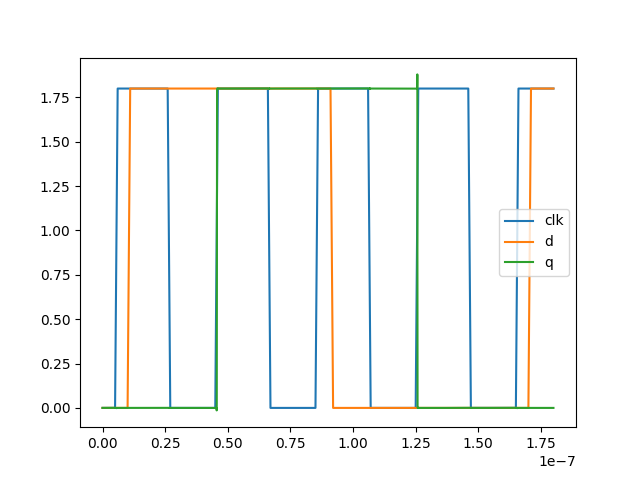
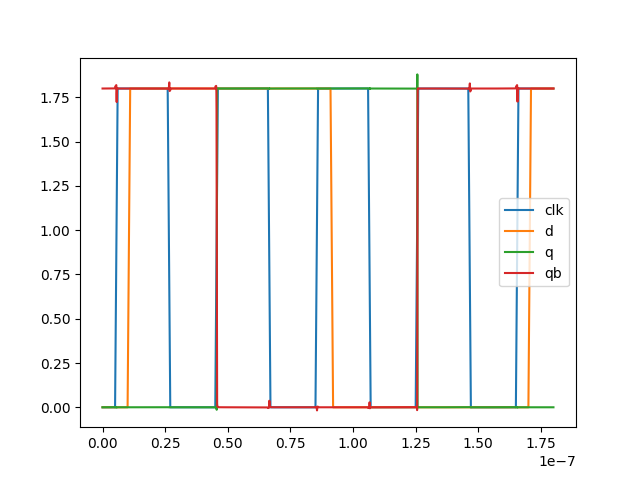
Add vertical DFF array generator

diff --git a/sramgen/src/layout/dff.rs b/sramgen/src/layout/dff.rs
@@ -1,4 +1,6 @@
 use crate::{layout::Result, tech::openram_dff_gds};
+use layout21::raw::translate::Translate;
+use layout21::raw::{Abstract, Instance, Layout, Point};
 use layout21::{
     raw::{Cell, Dir},
     utils::Ptr,
@@ -7,12 +9,16 @@ use pdkprims::PdkLib;
 
 use crate::layout::array::*;
 
-pub fn draw_dff_array(lib: &mut PdkLib, width: usize) -> Result<ArrayedCell> {
+pub fn draw_dff_array(
+    lib: &mut PdkLib,
+    name: impl Into<String>,
+    width: usize,
+) -> Result<ArrayedCell> {
     let dff = openram_dff_gds(lib)?;
 
     draw_cell_array(
         ArrayCellParams {
-            name: "dff_array".to_string(),
+            name: name.into(),
             num: width,
             cell: dff,
             spacing: None,
@@ -24,6 +30,59 @@ pub fn draw_dff_array(lib: &mut PdkLib, width: usize) -> Result<ArrayedCell> {
     )
 }
 
+pub fn draw_vert_dff_array(
+    lib: &mut PdkLib,
+    name: impl Into<String>,
+    width: usize,
+) -> Result<Ptr<Cell>> {
+    let name = name.into();
+
+    let mut layout = Layout::new(name.clone());
+    let mut abs = Abstract::new(name.clone());
+
+    let mut prev: Option<Instance> = None;
+
+    let dff = openram_dff_gds(lib)?;
+
+    let m0 = lib.pdk.metal(0);
+
+    for i in 0..width {
+        let mut inst = Instance::new(format!("dff_{}", i), dff.clone());
+        if i % 2 == 0 {
+            inst.reflect_vert = true;
+        }
+
+        let port = if i % 2 == 0 { "vdd" } else { "gnd" };
+
+        if let Some(prev) = prev {
+            let new_bot = inst.port(port).largest_rect(m0).unwrap().p0.y;
+            let prev_bot = prev.port(port).largest_rect(m0).unwrap().p0.y;
+            inst.translate(Point::new(0, prev_bot - new_bot));
+        }
+
+        let mut ports = inst.ports();
+        for p in ports.iter_mut() {
+            p.net = format!("{}_{}", &p.net, i);
+        }
+        for port in ports {
+            abs.add_port(port);
+        }
+
+        layout.add_inst(inst.clone());
+        prev = Some(inst);
+    }
+
+    let ptr = Ptr::new(Cell {
+        name,
+        layout: Some(layout),
+        abs: None,
+    });
+
+    lib.lib.cells.push(ptr.clone());
+
+    Ok(ptr)
+}
+
 #[cfg(test)]
 mod tests {
     use pdkprims::tech::sky130;
@@ -31,10 +90,21 @@ mod tests {
     use crate::utils::test_path;
 
     use super::*;
+
     #[test]
     fn test_sky130_dff_array() -> Result<()> {
         let mut lib = sky130::pdk_lib("test_sky130_dff_array")?;
-        draw_dff_array(&mut lib, 16)?;
+        draw_dff_array(&mut lib, "test_sky130_dff_array", 16)?;
+
+        lib.save_gds(test_path(&lib))?;
+
+        Ok(())
+    }
+
+    #[test]
+    fn test_sky130_vert_dff_array() -> Result<()> {
+        let mut lib = sky130::pdk_lib("test_sky130_vert_dff_array")?;
+        draw_vert_dff_array(&mut lib, "test_sky130_vert_dff_array", 8)?;
 
         lib.save_gds(test_path(&lib))?;
 

diff --git a/sramgen/src/layout/bank.rs b/sramgen/src/layout/bank.rs
@@ -11,6 +11,7 @@ use pdkprims::{LayerIdx, PdkLib};
 use crate::clog2;
 use crate::decoder::DecoderTree;
 use crate::layout::decoder::{bus_width, draw_hier_decode, ConnectSubdecodersArgs, GateList};
+use crate::layout::dff::draw_vert_dff_array;
 use crate::layout::route::grid::{Grid, TrackLocator};
 use crate::layout::route::Router;
 
@@ -35,12 +36,14 @@ pub fn draw_sram_bank(rows: usize, cols: usize, lib: &mut PdkLib) -> Result<Ptr<
     let grid = lib.pdk.grid();
 
     let row_bits = clog2(rows);
+    let col_sel_bits = 1;
 
     let decoder_tree = DecoderTree::new(row_bits);
     assert_eq!(decoder_tree.root.children.len(), 2);
 
     let decoder1 = draw_hier_decode(lib, "predecoder_1", &decoder_tree.root.children[0])?;
     let decoder2 = draw_hier_decode(lib, "predecoder_2", &decoder_tree.root.children[1])?;
+    let addr_dffs = draw_vert_dff_array(lib, "addr_dffs", row_bits + col_sel_bits)?;
 
     let core = draw_array(rows, cols, lib)?;
     let nand_dec = draw_nand2_array(lib, "nand2_dec", rows)?;
@@ -51,7 +54,7 @@ pub fn draw_sram_bank(rows: usize, cols: usize, lib: &mut PdkLib) -> Result<Ptr<
     let read_mux = draw_read_mux_array(lib, cols / 2)?;
     let write_mux = draw_write_mux_array(lib, cols)?;
     let sense_amp = draw_sense_amp_array(lib, cols / 2)?;
-    let dffs = draw_dff_array(lib, cols / 2)?;
+    let data_dffs = draw_dff_array(lib, "data_dff_array", cols / 2)?;
 
     let core = Instance {
         cell: core,
@@ -102,12 +105,14 @@ pub fn draw_sram_bank(rows: usize, cols: usize, lib: &mut PdkLib) -> Result<Ptr<
     };
 
     let mut dffs = Instance {
-        cell: dffs.cell,
+        cell: data_dffs.cell,
         inst_name: "dff_array".to_string(),
         reflect_vert: false,
         angle: None,
         loc: Point::new(0, 0),
     };
+
+    let mut addr_dffs = Instance::new("addr_dffs", addr_dffs);
 
     let core_bbox = core.bbox();
 
@@ -141,6 +146,9 @@ pub fn draw_sram_bank(rows: usize, cols: usize, lib: &mut PdkLib) -> Result<Ptr<
 
     decoder2.align_beneath(decoder1.bbox(), 1_000);
     decoder2.align_to_the_left_of(sense_amp.bbox(), 1_000);
+
+    addr_dffs.align_beneath(decoder2.bbox(), 1_270);
+    addr_dffs.align_to_the_left_of(dffs.bbox(), 1_270);
 
     // Top level routing
     let mut router = Router::new("bank_route", lib.pdk.clone());
@@ -388,6 +396,7 @@ pub fn draw_sram_bank(rows: usize, cols: usize, lib: &mut PdkLib) -> Result<Ptr<
     layout.insts.push(write_mux);
     layout.insts.push(sense_amp);
     layout.insts.push(dffs);
+    layout.insts.push(addr_dffs);
     layout.insts.push(routing);
 
     let cell = Cell {
@@ -481,7 +490,6 @@ mod tests {
     }
 
     #[test]
-    #[ignore = "slow"]
     fn test_sram_bank_128x128() -> Result<()> {
         let mut lib = sky130::pdk_lib("test_sram_bank_128x128")?;
         draw_sram_bank(128, 128, &mut lib).map_err(panic_on_err)?;

diff --git a/sramgen/src/tech/sky130.rs b/sramgen/src/tech/sky130.rs
@@ -65,6 +65,10 @@ fn name_map(lib: &Library) -> HashMap<String, Ptr<Cell>> {
 type CellGdsResult = anyhow::Result<Ptr<Cell>>;
 
 fn cell_gds(pdk_lib: &mut PdkLib, gds_file: &str, cell_name: &str) -> CellGdsResult {
+    if let Some(cell) = pdk_lib.lib.cell(cell_name) {
+        return Ok(cell);
+    }
+
     let mut path = external_gds_path();
     path.push(gds_file);
     let lib = GdsLibrary::load(&path)?;

diff --git a/sramgen/testbenches/openram_dff/openram_dff.py b/sramgen/testbenches/openram_dff/openram_dff.py
@@ -9,7 +9,7 @@ saved = [
     "qb",
 ]
 
-plot = ["clk", "d", "q"]
+plot = ["clk", "d", "q", "qb"]
 
 
 def read_data(f):
